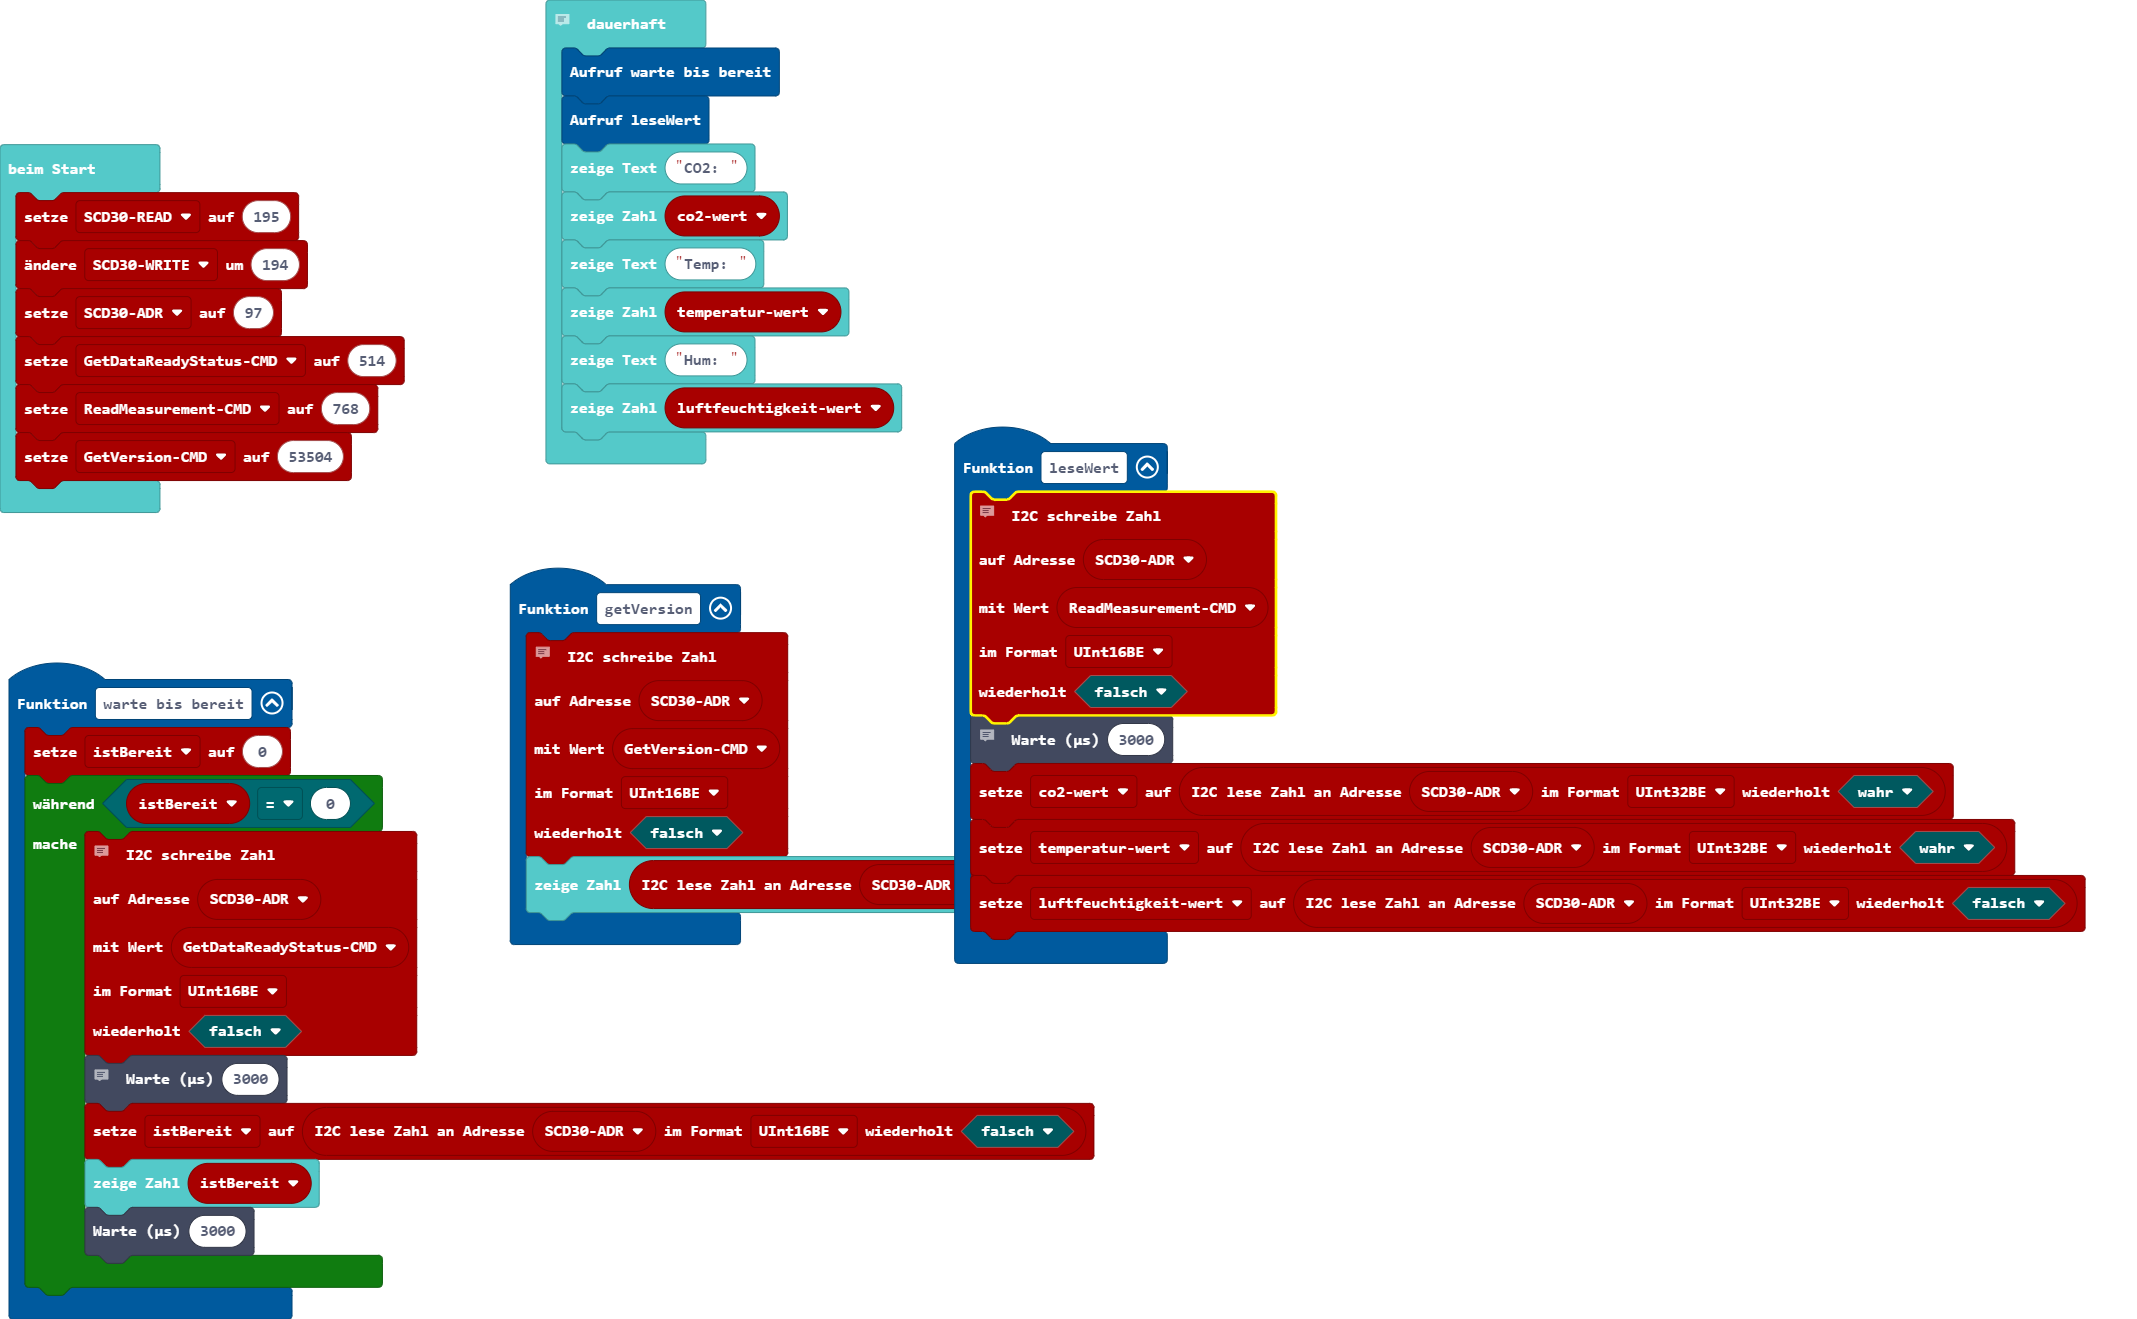
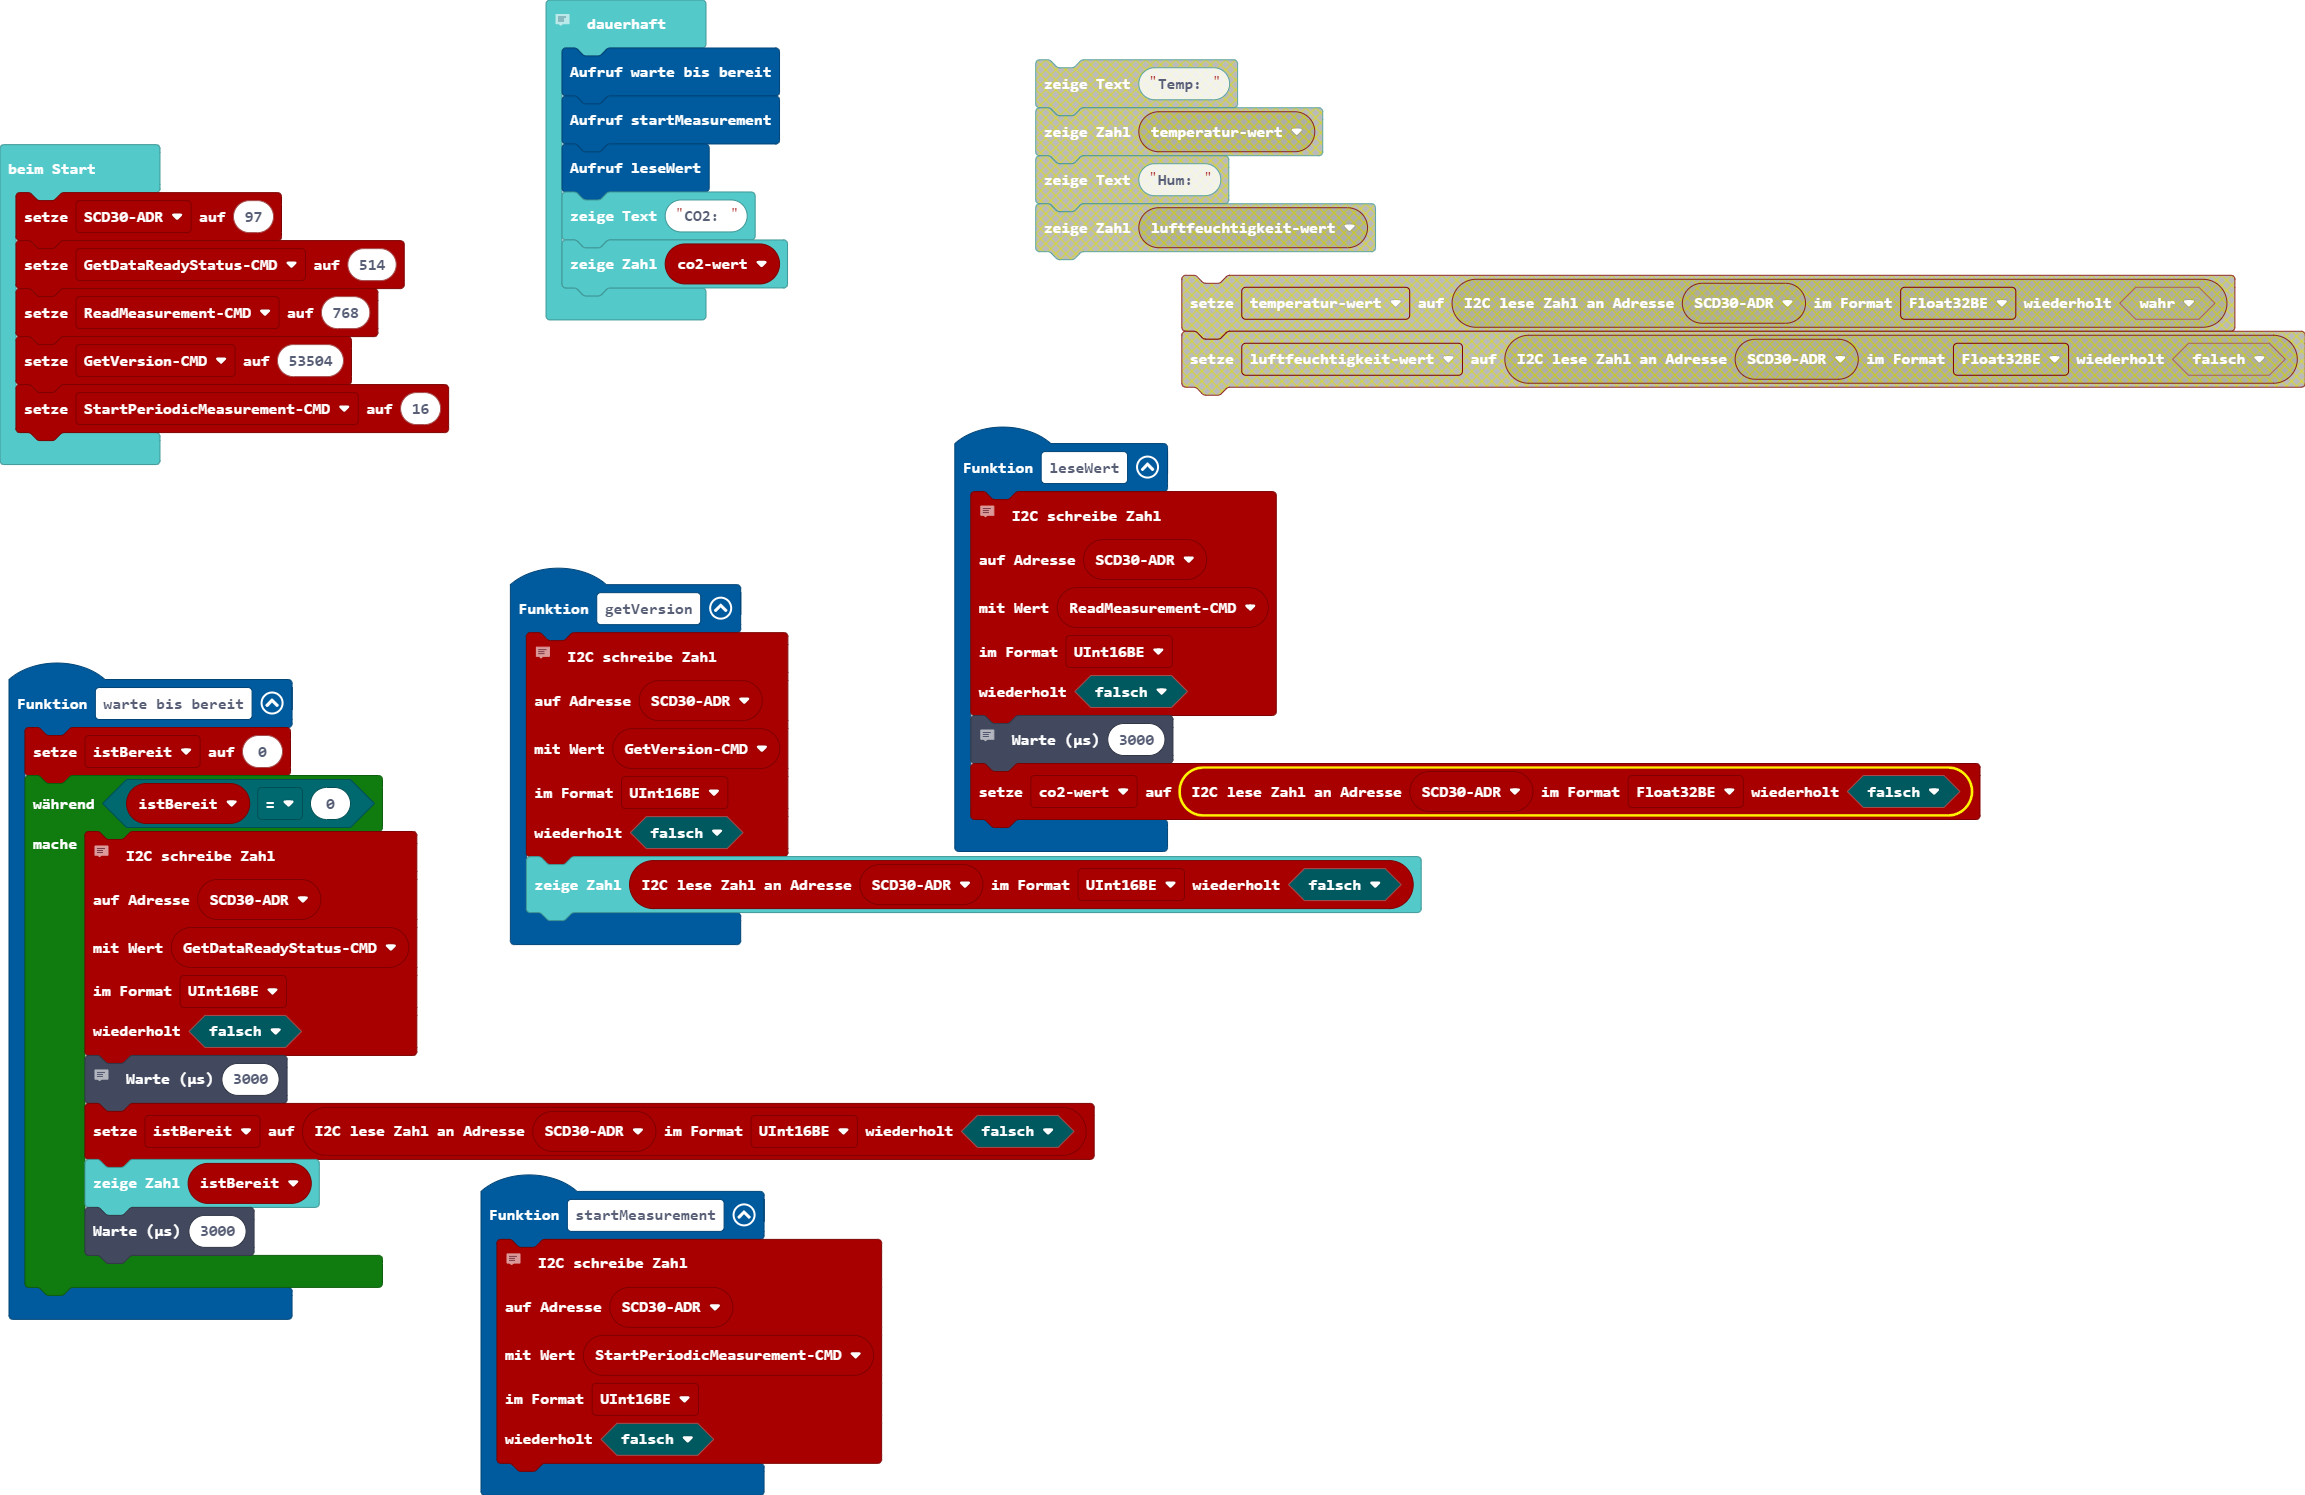
Aktualisiere main.blocks, main.ts

diff --git a/main.ts b/main.ts
@@ -1,3 +1,12 @@
+function startMeasurement () {
+    // checken, ob Werte anliegen
+    pins.i2cWriteNumber(
+    SCD30ADR,
+    StartPeriodicMeasurementCMD,
+    NumberFormat.UInt16BE,
+    false
+    )
+}
 function leseWert () {
     // checken, ob Werte anliegen
     pins.i2cWriteNumber(
@@ -8,9 +17,7 @@ function leseWert () {
     )
     // 4ms warten
     control.waitMicros(3000)
-    co2wert = pins.i2cReadNumber(SCD30ADR, NumberFormat.UInt32BE, true)
-    temperaturwert = pins.i2cReadNumber(SCD30ADR, NumberFormat.UInt32BE, true)
-    luftfeuchtigkeitwert = pins.i2cReadNumber(SCD30ADR, NumberFormat.UInt32BE, false)
+    co2wert = pins.i2cReadNumber(SCD30ADR, NumberFormat.Float32BE, false)
 }
 function warte_bis_bereit () {
     istBereit = 0
@@ -40,30 +47,24 @@ function getVersion () {
     basic.showNumber(pins.i2cReadNumber(SCD30ADR, NumberFormat.UInt16BE, false))
 }
 let istBereit = 0
-let luftfeuchtigkeitwert = 0
-let temperaturwert = 0
 let co2wert = 0
+let StartPeriodicMeasurementCMD = 0
 let GetVersionCMD = 0
 let ReadMeasurementCMD = 0
 let GetDataReadyStatusCMD = 0
 let SCD30ADR = 0
-let SCD30WRITE = 0
-let SCD30READ = 195
-SCD30WRITE += 194
 SCD30ADR = 97
 GetDataReadyStatusCMD = 514
 ReadMeasurementCMD = 768
 GetVersionCMD = 53504
+StartPeriodicMeasurementCMD = 16
 // Protokollbeschreibung
 // 
 // https://www.sensirion.com/fileadmin/user_upload/customers/sensirion/Dokumente/9.5_CO2/Sensirion_CO2_Sensors_SCD30_Interface_Description.pdf
 basic.forever(function () {
     warte_bis_bereit()
+    startMeasurement()
     leseWert()
     basic.showString("CO2: ")
     basic.showNumber(co2wert)
-    basic.showString("Temp: ")
-    basic.showNumber(temperaturwert)
-    basic.showString("Hum: ")
-    basic.showNumber(luftfeuchtigkeitwert)
 })
